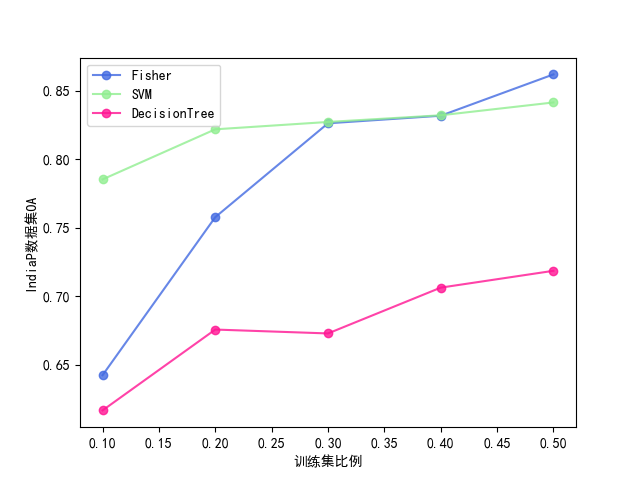
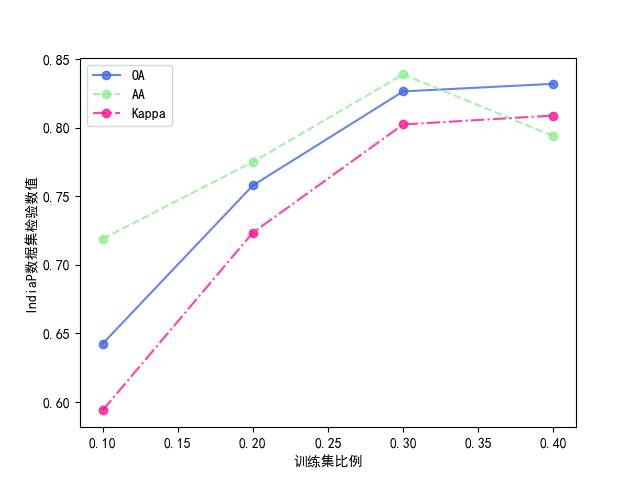
fix some bugs

diff --git a/FDA_main.py b/FDA_main.py
@@ -349,16 +349,29 @@ def getData():
 
 def run_one2one_model(test_size=0.9, random_state=1234, is_dim_reduction=False, dim_reduction_number=no_classes-1):
     '''
-        return oa, aa, K, ua
+        Input:
+            test_size: 测试集比例，默认0.9
+            rand_state:随机数种子，None代表随机，默认为1234
+            is_dim_reduction：代表是否进行FDA降维。
+            dim_reduction_number： 代表降维维数，默认为标签种类减1
+        Output:
+            return oa, aa, K, ua
     '''
     useful_data, useful_data_label, img_data, GroundT_data = getData()
     class_colors = getColors()
 
     useful_data = copy.deepcopy(useful_data)
-    if is_dim_reduction:
-        useful_data, Fisher_lda_W = Fisher_lda(useful_data, useful_data_label, dim_reduction_number)
-        img_data = img_data @ Fisher_lda_W
     X_train, X_test, y_train, y_test = train_test_split(useful_data, useful_data_label, test_size=test_size, random_state=random_state)
+    if is_dim_reduction:
+        X_train, Fisher_lda_W = Fisher_lda(X_train, y_train, dim_reduction_number)
+        X_test = X_test @ Fisher_lda_W
+        img_data = img_data @ Fisher_lda_W
+        # lda = LinearDiscriminantAnalysis(n_components=15)
+        # lda.fit(X_train, y_train)
+        # X_train = lda.transform(X_train)
+        # X_test = lda.transform(X_test)
+        # img_data = lda.transform(img_data)
+    
     train_data_dict = {'1':[], '2':[], '3':[], '4':[], '5':[], '6':[], '7':[], '8':[], '9':[], '10':[],
                     '11':[], '12':[], '13':[], '14':[], '15':[], '16':[]}
     for i in range(X_train.shape[0]):
@@ -390,21 +403,33 @@ def run_one2one_model(test_size=0.9, random_state=1234, is_dim_reduction=False, 
 
 def run_SVM_model(test_size=0.9, random_state=1234, is_dim_reduction=False, dim_reduction_number=no_classes-1):
     '''
-        return oa, aa, K, ua
+        Input:
+        test_size: 测试集比例，默认0.9
+        rand_state:随机数种子，None代表随机，默认为1234
+        is_dim_reduction：代表是否进行FDA降维。
+        dim_reduction_number： 代表降维维数，默认为标签种类减1
+        Output:
+            return oa, aa, K, ua
     '''
     useful_data, useful_data_label, img_data, GroundT_data = getData()
     class_colors = getColors()
 
-    if is_dim_reduction:
-        useful_data, _ = Fisher_lda(useful_data, useful_data_label, dim_reduction_number)
     X_train, X_test, y_train, y_test = train_test_split(useful_data, useful_data_label, test_size=test_size, random_state=random_state)
+    if is_dim_reduction:
+        X_train, Fisher_lda_W = Fisher_lda(X_train, y_train, dim_reduction_number)
+        X_test = X_test @ Fisher_lda_W
+        img_data = img_data @ Fisher_lda_W
+        # lda = LinearDiscriminantAnalysis(n_components=15)
+        # lda.fit(X_train, y_train)
+        # X_train = lda.transform(X_train)
+        # X_test = lda.transform(X_test)
+        # img_data = lda.transform(img_data)
 
     clf = svm.SVC(kernel='linear', decision_function_shape='ovo', max_iter=1e7)# max_iter=1e6
+    # clf = svm.SVC(max_iter=1e7)# max_iter=1e6
     print("正在训练SVM模型...")
     clf.fit(X_train, y_train.ravel())
     print("训练完毕!")
-    # print("SVM训练集准确率：{}".format(clf.score(X_train, y_train)))
-    # print("SVM测试集准确率: {}".format(clf.score(X_test, y_test)))
 
     estim_labels = clf.predict(X_test)
     oa, aa ,K, ua = confusion(y_test, estim_labels)
@@ -413,21 +438,32 @@ def run_SVM_model(test_size=0.9, random_state=1234, is_dim_reduction=False, dim_
 
 def run_DecisionTree_model(test_size=0.9, random_state=1234, is_dim_reduction=False, dim_reduction_number=no_classes-1):
     '''
-        return oa, aa, K, ua
+        Input:
+        test_size: 测试集比例，默认0.9
+        rand_state:随机数种子，None代表随机，默认为1234
+        is_dim_reduction：代表是否进行FDA降维。
+        dim_reduction_number： 代表降维维数，默认为标签种类减1
+        Output:
+            return oa, aa, K, ua
     '''
     useful_data, useful_data_label, img_data, GroundT_data = getData()
     class_colors = getColors()
 
-    if is_dim_reduction:
-        useful_data, _ = Fisher_lda(useful_data, useful_data_label, dim_reduction_number)
     X_train, X_test, y_train, y_test = train_test_split(useful_data, useful_data_label, test_size=test_size, random_state=random_state)
+    if is_dim_reduction:
+        X_train, Fisher_lda_W = Fisher_lda(X_train, y_train, dim_reduction_number)
+        X_test = X_test @ Fisher_lda_W
+        img_data = img_data @ Fisher_lda_W
+        # lda = LinearDiscriminantAnalysis(n_components=10)
+        # lda.fit(X_train, y_train)
+        # X_train = lda.transform(X_train)
+        # X_test = lda.transform(X_test)
+        # img_data = lda.transform(img_data)
 
     clf = tree.DecisionTreeClassifier()
     print("正在训练决策树模型...")
     clf=clf.fit(X_train, y_train)
     print("训练完毕！")
-    # print("决策树训练集准确率：{}".format(clf.score(X_train, y_train)))
-    # print("决策树测试集准确率: {}".format(clf.score(X_test, y_test)))
 
     estim_labels = clf.predict(X_test)
     oa, aa ,K, ua = confusion(y_test, estim_labels)
@@ -435,12 +471,13 @@ def run_DecisionTree_model(test_size=0.9, random_state=1234, is_dim_reduction=Fa
     return oa, aa, K, ua
 
 if __name__ == "__main__":
-    _, _, _, _, result_image = run_one2one_model(is_dim_reduction=True)
-    run_SVM_model(is_dim_reduction=True)
-    run_DecisionTree_model(is_dim_reduction=True)
-    _, _, _, _, result_image = run_one2one_model(is_dim_reduction=True)
-    run_SVM_model(is_dim_reduction=True)
-    run_DecisionTree_model(is_dim_reduction=True)
+    run_one2one_model()
+    run_one2one_model(is_dim_reduction=True)
+    # run_SVM_model(is_dim_reduction=True)
+    # run_DecisionTree_model(is_dim_reduction=True)
+    # _, _, _, _, result_image = run_one2one_model(is_dim_reduction=True)
+    # run_SVM_model(is_dim_reduction=True)
+    # run_DecisionTree_model(is_dim_reduction=True)
     # result_image = Image.fromarray(np.uint8(result_image))
     # result_image.show()
     # result_image.save("image2.jpeg", 'JPEG', quality=95)

diff --git a/FDA_show.py b/FDA_show.py
@@ -18,7 +18,7 @@ def autolabel(ax, rects):
               ha='center', va='bottom')
     
 if __name__ == "__main__":
-    test_size_numbers = [i*0.1 for i in range(9, 4, -1)]
+    test_size_numbers = [i*0.1 for i in range(9, 5, -1)]
     one2one_model_result = []
     SVM_model_result = []
     DecisionTree_model_result = []
@@ -26,7 +26,7 @@ if __name__ == "__main__":
     one2one_model_result_up = []
     SVM_model_result_up = []
     DecisionTree_model_result_up = []
-    for i in range(5):
+    for i in range(len(test_size_numbers)):
         print("test_size:{}".format(test_size_numbers[i]))
         oa, aa, K, uu, result_image = run_one2one_model(test_size=test_size_numbers[i])
         one2one_model_result.append([oa, aa, K, uu])
@@ -41,7 +41,7 @@ if __name__ == "__main__":
         oa, aa, K, uu, result_image = run_one2one_model(test_size=test_size_numbers[i], is_dim_reduction=True)
         one2one_model_result_up.append([oa, aa, K, uu])
         result_image = Image.fromarray(np.uint8(result_image))
-        result_image.save("./result_image/Fisher_Up_test_size_{:.1f}_oa_{:.2f}_image.jpeg".format(test_size_numbers[i], oa), 'JPEG', quality=95)
+        result_image.save("./result_image/Fisher_New_test_size_{:.1f}_oa_{:.2f}_image.jpeg".format(test_size_numbers[i], oa), 'JPEG', quality=95)
         
         oa, aa, K, uu = run_SVM_model(test_size=test_size_numbers[i], is_dim_reduction=True)
         SVM_model_result_up.append([oa, aa, K, uu])
@@ -56,17 +56,22 @@ if __name__ == "__main__":
     SVM_model_result_up = np.array(SVM_model_result_up)
     DecisionTree_model_result_up = np.array(DecisionTree_model_result_up)
 
-    # plt.plot([(1 - i * 0.1) for i in range(5, 10)], one2one_model_result[:, 0], 'ro-', color='#4169E1', alpha=0.8, label='Fisher')
-    # plt.plot([(1 - i * 0.1) for i in range(5, 10)], SVM_model_result[:, 0], 'ro--', color='#90EE90', alpha=0.8, label='SVM')
-    # plt.plot([(1 - i * 0.1) for i in range(5, 10)], DecisionTree_model_result[:, 0], 'ro-.', color='#FF1493', alpha=0.8, label='DecisionTree')
+    # plt.plot([(1 - i) for i in test_size_numbers], one2one_model_result[:, 0], 'ro-', color='#4169E1', alpha=0.8, label='OA')
+    # plt.plot([(1 - i) for i in test_size_numbers], one2one_model_result[:, 1], 'ro--', color='#90EE90', alpha=0.8, label='AA')
+    # plt.plot([(1 - i) for i in test_size_numbers], one2one_model_result[:, 2], 'ro-.', color='#FF1493', alpha=0.8, label='Kappa')
+    # plt.legend(loc='best')
+    # plt.xlabel('训练集比例')
+    # plt.ylabel('IndiaP数据集检验数值')
+    # figure(1)
 
-    # plt.plot([(1 - i * 0.1) for i in range(5, 10)], SVM_model_result_up[:, 0], 'ro--', color='#FFA500', alpha=0.8, label='SVM_Up')
-    # plt.plot([(1 - i * 0.1) for i in range(5, 10)], DecisionTree_model_result_up[:, 0], 'ro-.', color='#FFFF00', alpha=0.8, label='DecisionTree_Up')
+    # plt.plot([(1 - i) for i in test_size_numbers], one2one_model_result[:, 0], 'ro-', color='#4169E1', alpha=0.8, label='Fisher')
+    # plt.plot([(1 - i) for i in test_size_numbers], SVM_model_result[:, 0], 'ro-', color='#90EE90', alpha=0.8, label='SVM')
+    # plt.plot([(1 - i) for i in test_size_numbers], DecisionTree_model_result[:, 0], 'ro-', color='#FF1493', alpha=0.8, label='DecisionTree')
     # plt.legend(loc='best')
     # plt.xlabel('训练集比例')
     # plt.ylabel('IndiaP数据集QA')
+    # figure(2)
 
-    plt.figure(1)
     fig, ax = plt.subplots(figsize=(10, 8))
     x = np.arange(len(test_size_numbers))
     width = 0.35
@@ -79,8 +84,8 @@ if __name__ == "__main__":
     plt.legend(loc='best')
     plt.xlabel("训练集比例")
     plt.ylabel('IndiaP数据集OA')
+    plt.figure(3)
 
-    plt.figure(2)
     fig, ax = plt.subplots(figsize=(10, 8))
     x = np.arange(len(test_size_numbers))
     width = 0.35
@@ -93,8 +98,8 @@ if __name__ == "__main__":
     plt.legend(loc='best')
     plt.xlabel("训练集比例")
     plt.ylabel('IndiaP数据集OA')
+    plt.figure(4)
 
-    plt.figure(3)
     fig, ax = plt.subplots(figsize=(10, 8))
     x = np.arange(len(test_size_numbers))
     width = 0.35
@@ -107,5 +112,6 @@ if __name__ == "__main__":
     plt.legend(loc='best')
     plt.xlabel("训练集比例")
     plt.ylabel('IndiaP数据集OA')
+    plt.figure(5)
 
     plt.show()

diff --git a/README.md b/README.md
@@ -1,1 +1,23 @@
 # FDA
+FDA_main.py是FDA线性判别的主程序入口。
+
+- run_one2one_model函数代表FDA识别函数
+- run_SVM_model函数代表SVM识别函数
+- run_DecisionTree_model函数代表决策树识别函数
+
+FDA_show.py是FDA线性判别结果展示的入口。
+
+如需运行程序，请安装以下环境：
+- python >= 3.6
+- numpy
+- scipy
+- sklearn
+- Pillow
+- matplotlib
+
+安装环境后请在中断输入以下命令：
+```
+python FDA_show.py
+```
+
+运行完成后将输出柱状图和折线图，FDA线性判别改进前后的效果图将存放至./result_image文件夹下。
